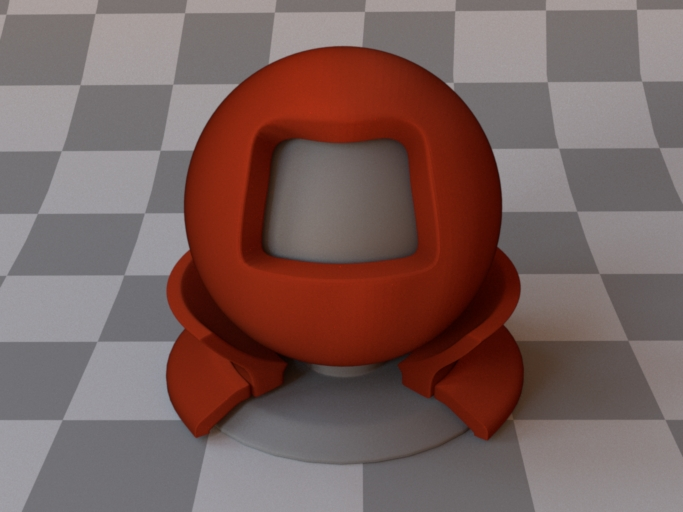
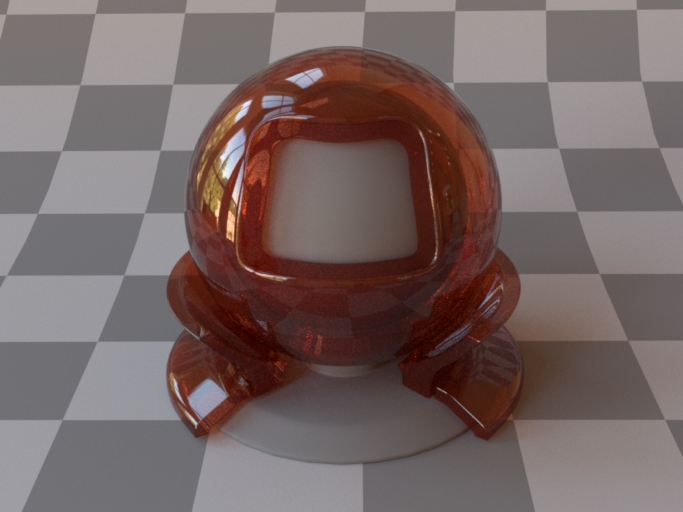
a few bugfixes

Changed region(s): [[0.246, 0.0625, 0.7687, 0.875]]

diff --git a/src/luminaires/sky.cpp b/src/luminaires/sky.cpp
@@ -57,7 +57,7 @@ MTS_NAMESPACE_BEGIN
  *     \parameter{resolution}{\Integer}{Specifies the resolution of the precomputed
  *         image that is used to represent the sky environment map
  *         \default{256}}
- *     \parameter{intensityScale}{\Float}{
+ *     \parameter{skyScale}{\Float}{
  *         This parameter can be used to scale the the amount of illumination
  *         emitted by the sky luminaire, for instance to change its units. To
  *         switch from photometric ($\nicefrac{W}{m^2\cdot sr}$) 
@@ -164,7 +164,7 @@ class SkyLuminaire : public Luminaire {
 public:
 	SkyLuminaire(const Properties &props)
 			: Luminaire(props) {
-		m_intensityScale = props.getFloat("intensityScale", 1.0f);
+		m_scale = props.getFloat("skyScale", 1.0f);
 		m_turbidity = props.getFloat("turbidity", 3.0f);
 		if (m_turbidity < 1 || m_turbidity > 30)
 			Log(EError, "The turbidity parameter must be in the range [1,30]!");
@@ -182,7 +182,7 @@ public:
 
 	SkyLuminaire(Stream *stream, InstanceManager *manager) 
 		    : Luminaire(stream, manager) {
-		m_intensityScale = stream->readFloat();
+		m_scale = stream->readFloat();
 		m_turbidity = stream->readFloat();
 		m_thetaS = stream->readFloat();
 		m_phiS = stream->readFloat();
@@ -194,7 +194,7 @@ public:
 
 	void serialize(Stream *stream, InstanceManager *manager) const {
 		Luminaire::serialize(stream, manager);
-		stream->writeFloat(m_intensityScale);
+		stream->writeFloat(m_scale);
 		stream->writeFloat(m_turbidity);
 		stream->writeFloat(m_thetaS);
 		stream->writeFloat(m_phiS);
@@ -265,7 +265,7 @@ public:
 			Float theta = (i+.5f)*factor.x;
 			for (int j=0; j<phiBins; ++j) {
 				Float phi = (j+.5f)*factor.y;
-				Spectrum s = getSkySpectralRadiance(theta, phi) * m_intensityScale;
+				Spectrum s = getSkySpectralRadiance(theta, phi) * m_scale;
 				Float r, g, b;
 				s.toLinearRGB(r, g, b);
 				*target++ = r; *target++ = g;
@@ -290,7 +290,7 @@ public:
 
 	Spectrum Le(const Ray &ray) const {
 		Point2 coords = fromSphere(ray.d);
-		return getSkySpectralRadiance(coords.x, coords.y) * m_intensityScale;
+		return getSkySpectralRadiance(coords.x, coords.y) * m_scale;
 	}
 
 	std::string toString() const {
@@ -299,7 +299,7 @@ public:
 			<< "  turbidity = " << m_turbidity << "," << endl 
 			<< "  sunPos = [theta: " << m_thetaS << ", phi: "<< m_phiS << "]," << endl 
 			<< "  zenithL = " << m_zenithL << "," << endl
-			<< "  intensityScale = " << m_intensityScale << endl
+			<< "  skyScale = " << m_scale << endl
 			<< "]";
 		return oss.str();
 	}
@@ -385,7 +385,7 @@ protected:
 	/* Environment map resolution */
 	int m_resolution;
 	/* Constant scale factor applied to the model */
-	Float m_intensityScale;
+	Float m_scale;
 	/* The turbidity of the sky ranges normally from 1 to 30.
 	   For clear skies values in range [2,6] are useful. */
 	Float m_turbidity;

diff --git a/src/bsdfs/hk.cpp b/src/bsdfs/hk.cpp
@@ -43,8 +43,8 @@ MTS_NAMESPACE_BEGIN
  * }
  *
  * \renderings{
- *     \rendering{$\sigma_s=2$, $\sigma_a=0.1$, thickness$=0.1$}{bsdf_hk_1}
- *     \rendering{\code{ketchup} material preset}{bsdf_hk_2}
+ *     \rendering{An index-matched scattering layer with parameters $\sigma_s=2$, $\sigma_a=0.1$, thickness$=0.1$}{bsdf_hk_1}
+ *     \rendering{Example of the HK model with a dielectric coating (and the \code{ketchup} material preset, see \lstref{hk-coated})}{bsdf_hk_2}
  * }
  *
  * This plugin provides an implementation of the Hanrahan-Krueger BSDF
@@ -60,8 +60,8 @@ MTS_NAMESPACE_BEGIN
  * \begin{xml}
  * <bsdf type="hk">
  *     <spectrum name="sigmaS" value="2"/>
- *     <spectrum name="sigmaA" value="0.05"/>
- *     <float name="thickness" value="1"/>
+ *     <spectrum name="sigmaA" value="0.1"/>
+ *     <float name="thickness" value="0.1"/>
  *
  *     <phase type="hg">
  *         <float name="g" value="0.8"/>
@@ -74,19 +74,14 @@ MTS_NAMESPACE_BEGIN
  * of refraction are mismatched. The combination of these two plugins
  * reproduces the full model proposed in \cite{Hanrahan1993Reflection}.
  *
- * \begin{xml}
+ * \begin{xml}[caption=A thin dielectric layer with measured ketchup scattering parameters, label=lst:hk-coated]
  * <bsdf type="coating">
  *     <float name="extIOR" value="1.0"/>
  *     <float name="intIOR" value="1.5"/>
  *
  *     <bsdf type="hk">
- *         <spectrum name="sigmaS" value="2"/>
- *         <spectrum name="sigmaA" value="0.05"/>
- *         <float name="thickness" value="1"/>
- *
- *         <phase type="hg">
- *             <float name="g" value="0.8"/>
- *         </phase>
+ *         <string name="material" value="ketchup"/>
+ *         <float name="thickness" value="0.01"/>
  *     </bsdf>
  * </bsdf>
  * \end{xml}

diff --git a/src/luminaires/sunsky.cpp b/src/luminaires/sunsky.cpp
@@ -58,12 +58,13 @@ MTS_NAMESPACE_BEGIN
  *     \parameter{resolution}{\Integer}{Specifies the resolution of the precomputed
  *         image that is used to represent the sky environment map
  *         \default{256}}
- *     \parameter{scale}{\Float}{
+ *     \parameter{skyScale}{\Float}{
  *         This parameter can be used to scale the the amount of illumination
- *         emitted by the sky luminaire, for instance to change its units. To
- *         switch from photometric ($\nicefrac{W}{m^2\cdot sr}$) 
- *         to arbitrary but convenient units in the $[0,1]$ range, set 
- *         this parameter to \code{1e-5}.\default{1}.
+ *         emitted by the sky. 
+ *     }
+ *     \parameter{sunScale}{\Float}{
+ *         This parameter can be used to scale the the amount of illumination
+ *         emitted by the sun. 
  *     }
  * }
  *

diff --git a/src/medium/heterogeneous.cpp b/src/medium/heterogeneous.cpp
@@ -86,6 +86,7 @@ public:
 	HeterogeneousMedium(const Properties &props) 
 		: Medium(props) {
 		m_stepSize = props.getFloat("stepSize", 0);
+		m_densityMultiplier = props.getFloat("densityMultiplier", 1);
 		if (props.hasProperty("sigmaS") || props.hasProperty("sigmaA"))
 			Log(EError, "The 'sigmaS' and 'sigmaA' properties are only supported by "
 				"homogeneous media. Please use nested volume instances to supply "

diff --git a/src/luminaires/envmap.cpp b/src/luminaires/envmap.cpp
@@ -110,7 +110,7 @@ public:
 	}
 
 	void configure() {
-		int mipMapLevel = std::min(3, m_mipmap->getLevels()-1);
+		int mipMapLevel = std::min(0, m_mipmap->getLevels()-1);
 		m_pdfResolution = m_mipmap->getLevelResolution(mipMapLevel);
 		m_pdfInvResolution = Vector2(1.0f / m_pdfResolution.x, 
 				1.0f / m_pdfResolution.y);

diff --git a/src/librender/medium.cpp b/src/librender/medium.cpp
@@ -54,6 +54,7 @@ void Medium::configure() {
 	if (m_phaseFunction == NULL) {
 		m_phaseFunction = static_cast<PhaseFunction *> (PluginManager::getInstance()->
 				createObject(MTS_CLASS(PhaseFunction), Properties("isotropic")));
+		m_phaseFunction->configure();
 	}
 }
 

diff --git a/src/librender/phase.cpp b/src/librender/phase.cpp
@@ -27,7 +27,7 @@ Float PhaseFunction::sigmaDir(Float cosTheta) const {
 		" an anisotropic medium)");
 	return 0.0f;
 }
-	
+
 Float PhaseFunction::sigmaDirMax() const {
 	Log(EError, "sigmaDirMax(): Not implemented! (this is not"
 		" an anisotropic medium)");

diff --git a/src/integrators/path/volpath_simple.cpp b/src/integrators/path/volpath_simple.cpp
@@ -275,8 +275,6 @@ public:
 	}
 
 	MTS_DECLARE_CLASS()
-private:
-	bool m_strictNormals;
 };
 
 MTS_IMPLEMENT_CLASS_S(SimpleVolumetricPathTracer, false, MonteCarloIntegrator)
